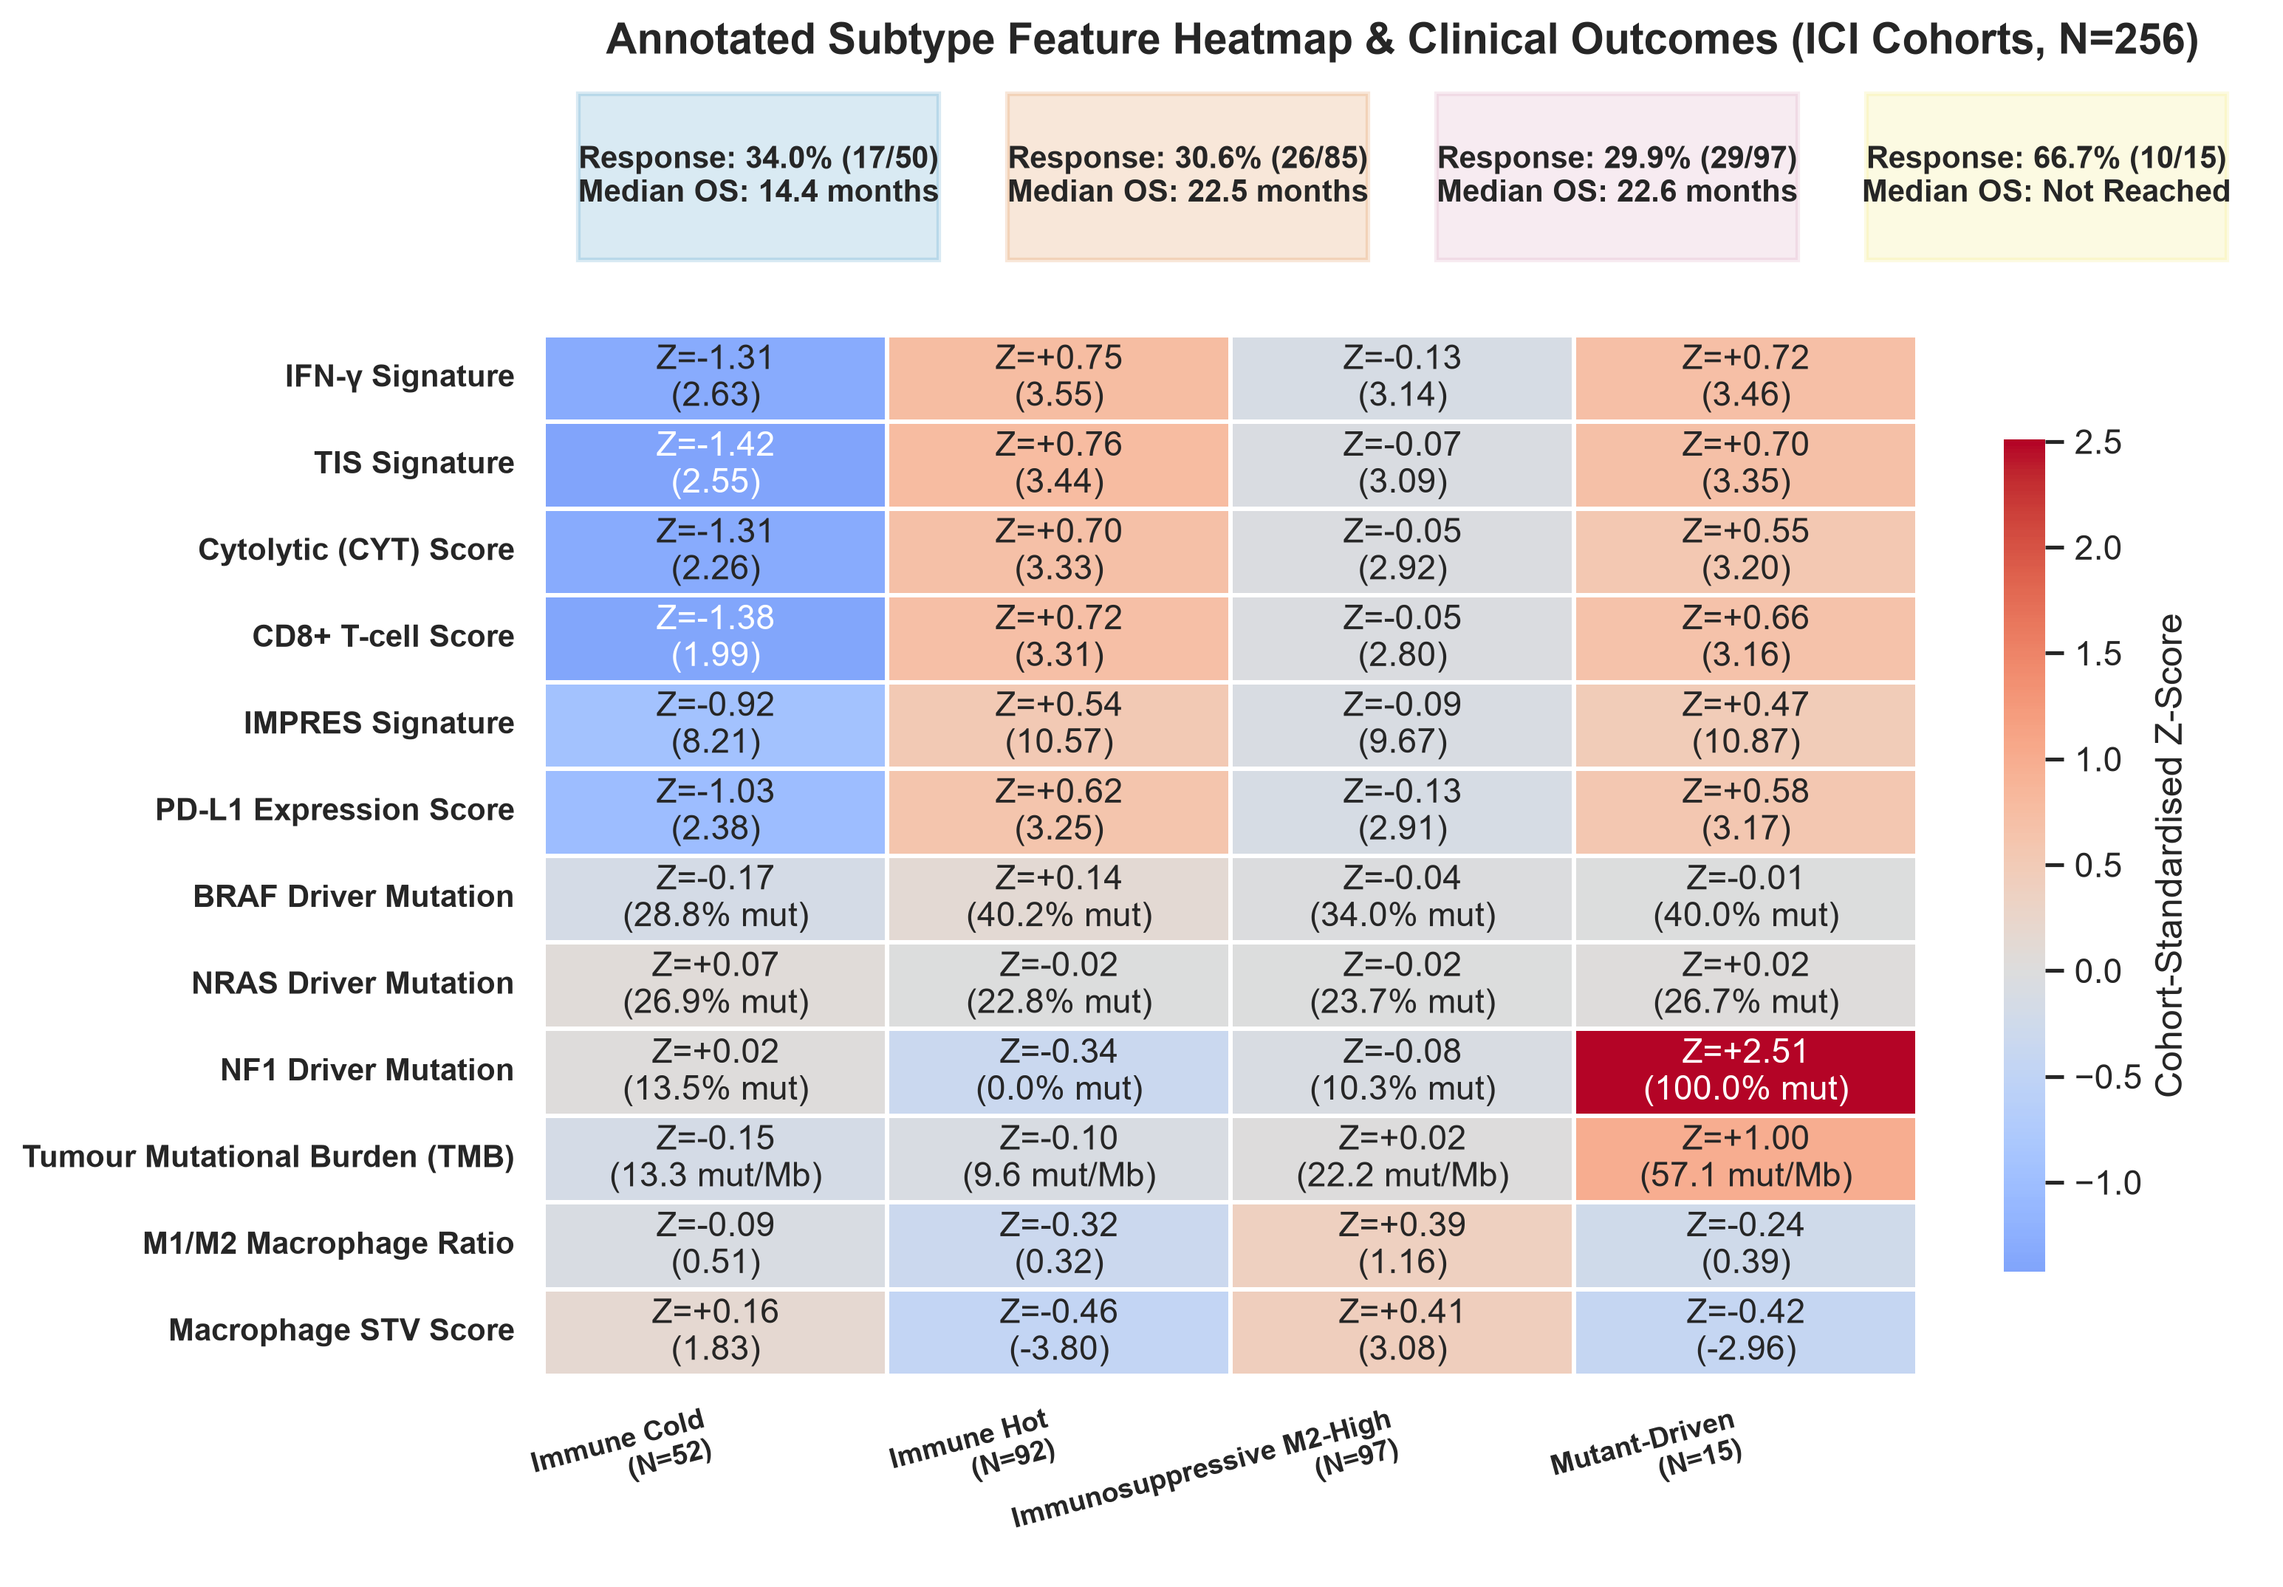
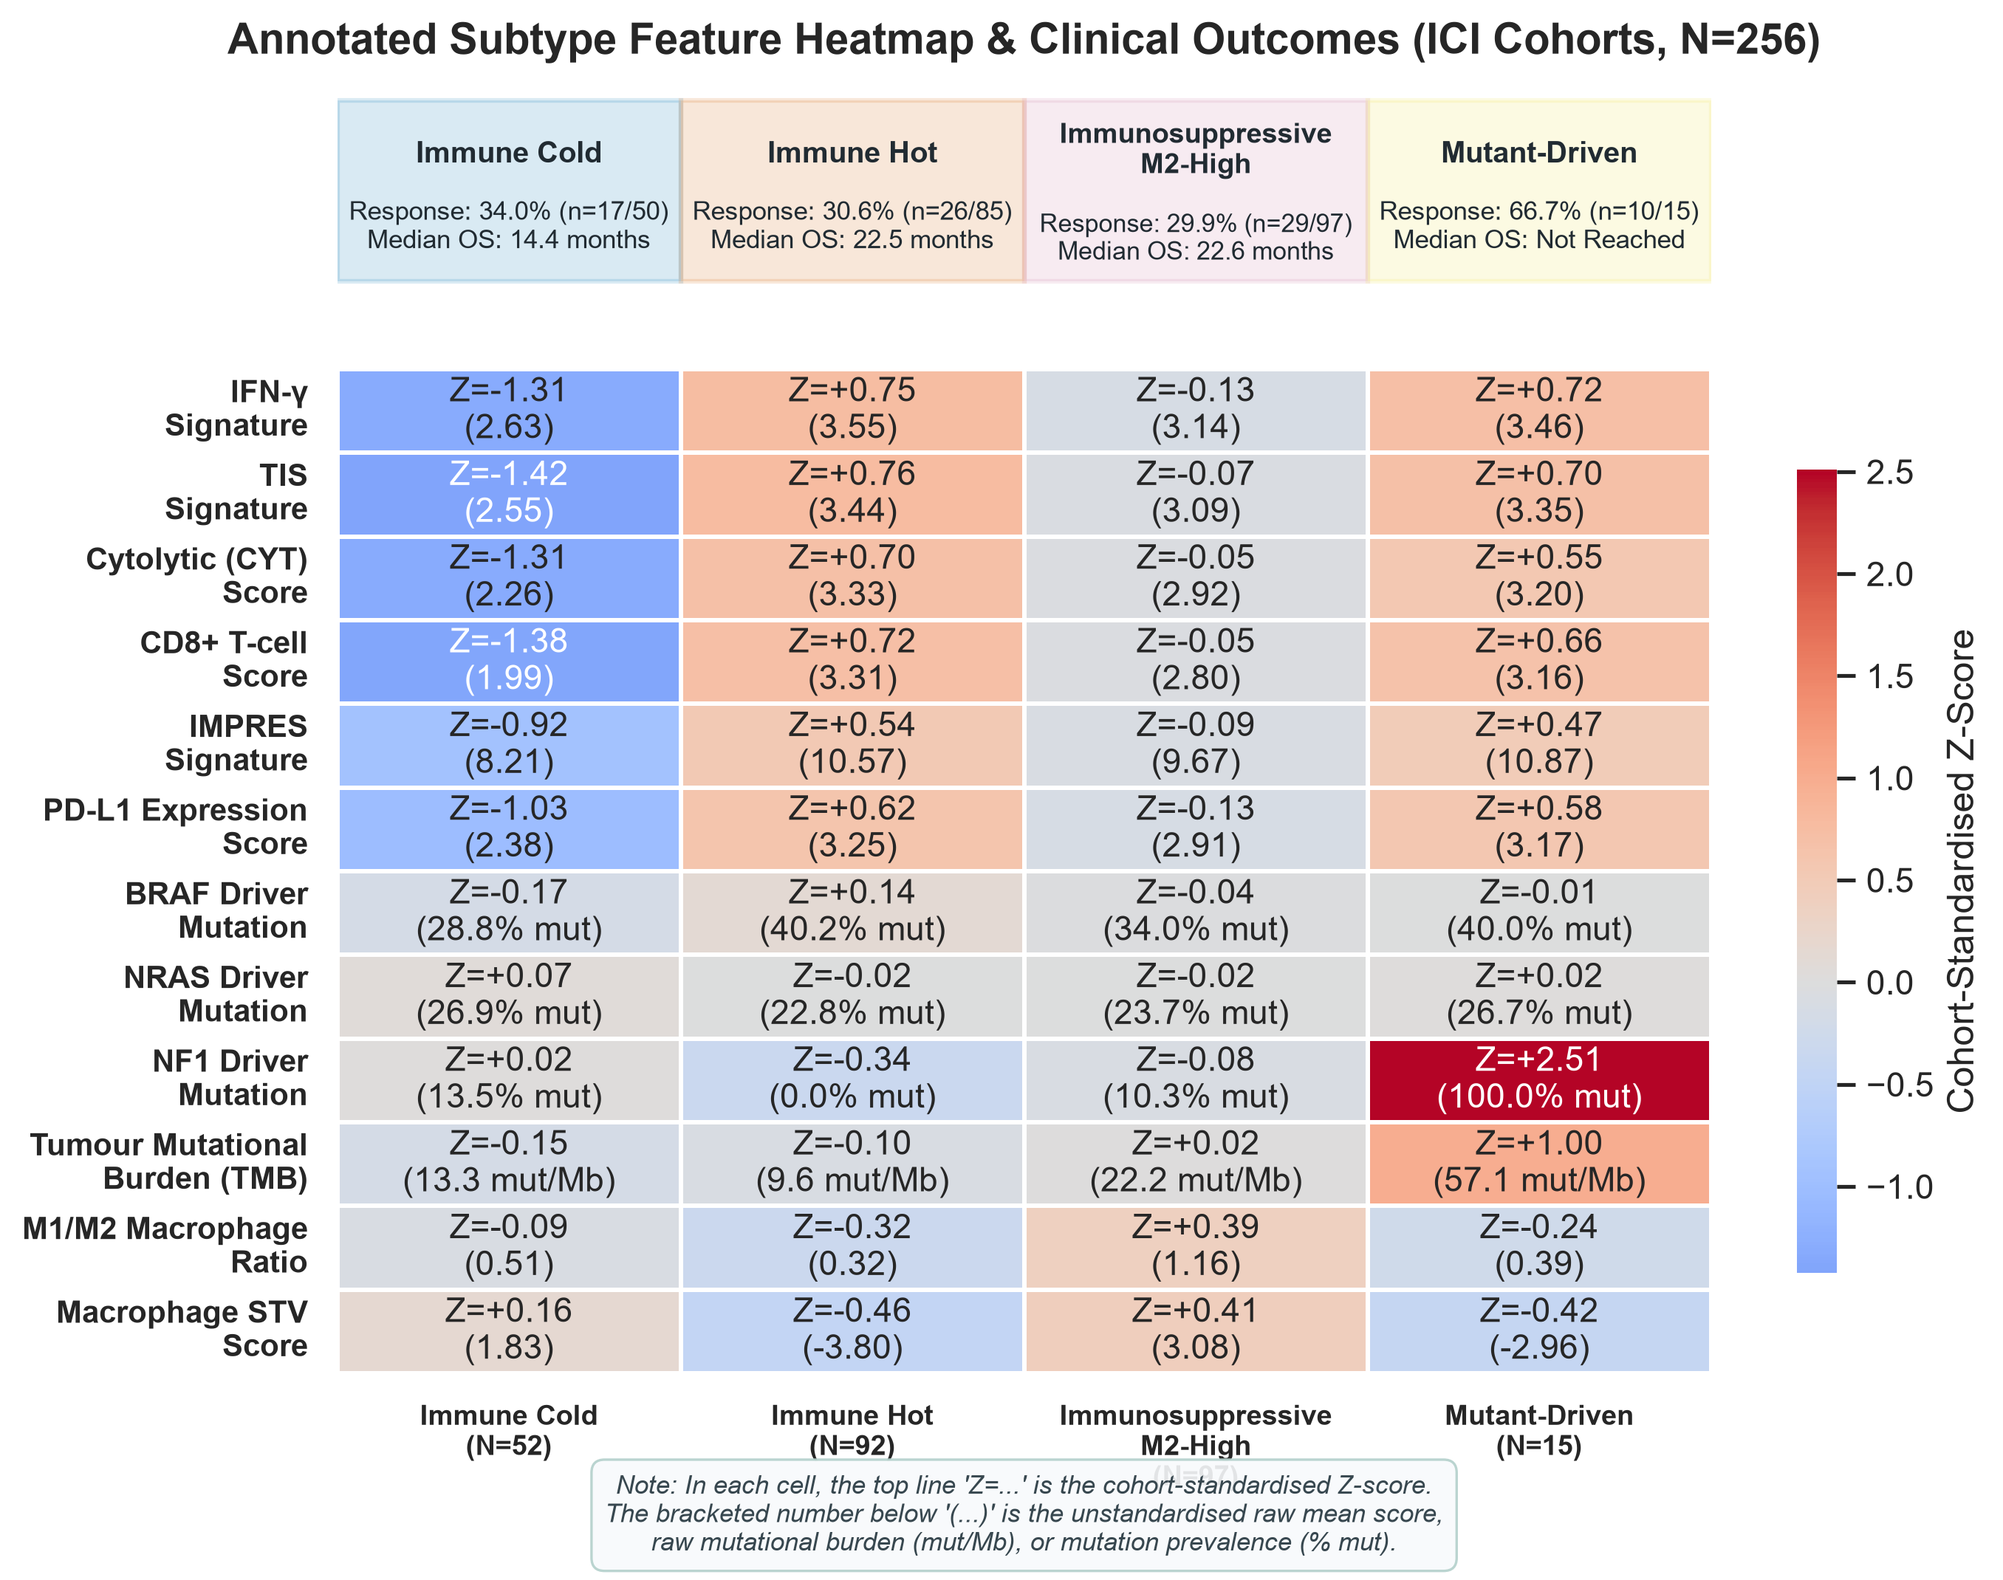
style(heatmap): widen phenotype boxes to full column width, centre legend over heatmap

diff --git a/q1-response-predictor/scripts/pillar-2-clinical-subtyping/run_clinical_clustering.py b/q1-response-predictor/scripts/pillar-2-clinical-subtyping/run_clinical_clustering.py
@@ -154,20 +154,20 @@ _PROB_COL_MAP: Dict[str, str] = {
     "Immunosuppressive M2-High": "P_Immunosuppressive_M2_High",
 }
 
-# Human-readable feature display names for heatmap annotation
+# Human-readable feature display names for heatmap annotation (wrapped across two lines)
 FEATURE_DISPLAY_NAMES: Dict[str, str] = {
-    "IFN_gamma": "IFN-γ Signature",
-    "TIS": "TIS Signature",
-    "CYT": "Cytolytic (CYT) Score",
-    "CD8_Tcell": "CD8+ T-cell Score",
-    "IMPRES": "IMPRES Signature",
-    "PD_L1": "PD-L1 Expression Score",
-    "mut_BRAF": "BRAF Driver Mutation",
-    "mut_NRAS": "NRAS Driver Mutation",
-    "mut_NF1": "NF1 Driver Mutation",
-    "TMB_NONSYNONYMOUS": "Tumour Mutational Burden (TMB)",
-    "M1_M2_Ratio": "M1/M2 Macrophage Ratio",
-    "Macrophage_STV": "Macrophage STV Score",
+    "IFN_gamma": "IFN-γ\nSignature",
+    "TIS": "TIS\nSignature",
+    "CYT": "Cytolytic (CYT)\nScore",
+    "CD8_Tcell": "CD8+ T-cell\nScore",
+    "IMPRES": "IMPRES\nSignature",
+    "PD_L1": "PD-L1 Expression\nScore",
+    "mut_BRAF": "BRAF Driver\nMutation",
+    "mut_NRAS": "NRAS Driver\nMutation",
+    "mut_NF1": "NF1 Driver\nMutation",
+    "TMB_NONSYNONYMOUS": "Tumour Mutational\nBurden (TMB)",
+    "M1_M2_Ratio": "M1/M2 Macrophage\nRatio",
+    "Macrophage_STV": "Macrophage STV\nScore",
 }
 
 
@@ -735,10 +735,10 @@ def _plot_cluster_heatmap(
             raw_matrix[row_idx, col_idx] = sub[col].mean()
 
     cluster_counts = df["CLINICAL_CLUSTER"].value_counts().to_dict()
-    col_labels = [
-        f"{phenotype_names[cid]}\n(N={cluster_counts.get(cid, 0)})"
-        for cid in ordered_ids
-    ]
+    col_labels = []
+    for cid in ordered_ids:
+        cname = phenotype_names[cid].replace("Immunosuppressive M2-High", "Immunosuppressive\nM2-High")
+        col_labels.append(f"{cname}\n(N={cluster_counts.get(cid, 0)})")
 
     # Response rates (trial patients with binary labels)
     trial_df = df[df["IS_TRIAL"] & df["RESPONDER"].notna()]
@@ -747,7 +747,7 @@ def _plot_cluster_heatmap(
         sub = trial_df[trial_df["CLINICAL_CLUSTER"] == cid]
         if len(sub) > 0:
             n_resp = (sub["RESPONDER"] == 1.0).sum()
-            resp_rates.append(f"{(n_resp / len(sub)) * 100:.1f}% ({n_resp}/{len(sub)})")
+            resp_rates.append(f"{(n_resp / len(sub)) * 100:.1f}% (n={n_resp}/{len(sub)})")
         else:
             resp_rates.append("N/A")
 
@@ -758,36 +758,10 @@ def _plot_cluster_heatmap(
     )
 
     fig = plt.figure(figsize=(max(10, 2.5 * n_clusters), 8.5))
-    gs = fig.add_gridspec(3, 1, height_ratios=[0.8, 4.5, 0.4], hspace=0.15)
+    gs = fig.add_gridspec(3, 1, height_ratios=[0.9, 4.5, 0.4], hspace=0.18)
 
     ax_top = fig.add_subplot(gs[0])
     ax_top.axis("off")
-
-    for col_idx, cid in enumerate(ordered_ids):
-        color = get_phenotype_color(phenotype_names[cid])
-        med_os = median_survivals.get(cid, "N/A")
-        track_text = f"Response: {resp_rates[col_idx]}\nMedian OS: {med_os}"
-
-        x_start = col_idx / n_clusters + 0.02
-        rect_width = (1.0 / n_clusters) - 0.04
-        rect = plt.Rectangle(
-            (x_start, 0.05), rect_width, 0.9,
-            facecolor=color, alpha=0.15, edgecolor=color,
-            linewidth=1.5, transform=ax_top.transAxes,
-        )
-        ax_top.add_patch(rect)
-        ax_top.text(
-            x_start + rect_width / 2,
-            0.5,
-            track_text,
-            ha="center", va="center", fontsize=10, weight="bold",
-            transform=ax_top.transAxes,
-        )
-
-    ax_top.set_title(
-        f"Annotated Subtype Feature Heatmap & Clinical Outcomes (ICI Cohorts, N={len(df)})",
-        fontsize=14, weight="bold", pad=10,
-    )
 
     ax_heat = fig.add_subplot(gs[1])
     _BINARY_FEATURES = set(_DRIVER_MUT_FEATURES)
@@ -817,7 +791,77 @@ def _plot_cluster_heatmap(
         ax=ax_heat,
     )
     ax_heat.set_yticklabels(ax_heat.get_yticklabels(), rotation=0, fontsize=10, weight="bold")
-    ax_heat.set_xticklabels(ax_heat.get_xticklabels(), rotation=15, ha="right", fontsize=9, weight="bold")
+    ax_heat.set_xticklabels(ax_heat.get_xticklabels(), rotation=0, ha="center", fontsize=9, weight="bold")
+
+    # Match ax_top's horizontal position and width to ax_heat's heatmap grid
+    fig.canvas.draw()
+    pos_heat = ax_heat.get_position()
+    pos_top = ax_top.get_position()
+    ax_top.set_position([pos_heat.x0, pos_top.y0, pos_heat.width, pos_top.height])
+
+    for col_idx, cid in enumerate(ordered_ids):
+        color = get_phenotype_color(phenotype_names[cid])
+        cluster_name = phenotype_names[cid].replace("Immunosuppressive M2-High", "Immunosuppressive\nM2-High")
+        med_os = median_survivals.get(cid, "N/A")
+        stats_text = f"Response: {resp_rates[col_idx]}\nMedian OS: {med_os}"
+
+        x_start = col_idx / n_clusters
+        rect_width = 1.0 / n_clusters
+        rect = plt.Rectangle(
+            (x_start, 0.05), rect_width, 0.9,
+            facecolor=color, alpha=0.15, edgecolor=color,
+            linewidth=1.5, transform=ax_top.transAxes,
+        )
+        ax_top.add_patch(rect)
+
+        # Cluster Name in bold
+        has_newline = "\n" in cluster_name
+        name_y = 0.70 if has_newline else 0.68
+        stats_y = 0.26 if has_newline else 0.32
+
+        ax_top.text(
+            x_start + rect_width / 2,
+            name_y,
+            cluster_name,
+            ha="center", va="center", fontsize=9.0 if has_newline else 9.5, weight="bold",
+            color="#212B32",
+            transform=ax_top.transAxes,
+        )
+        # Outcome stats reduced font size and not bold
+        ax_top.text(
+            x_start + rect_width / 2,
+            stats_y,
+            stats_text,
+            ha="center", va="center", fontsize=8.2 if has_newline else 8.5, weight="normal",
+            color="#212B32",
+            transform=ax_top.transAxes,
+        )
+
+    # Plot title centered horizontally
+    ax_top.set_title(
+        f"Annotated Subtype Feature Heatmap & Clinical Outcomes (ICI Cohorts, N={len(df)})",
+        fontsize=14, weight="bold", pad=12, ha="center", x=0.5,
+    )
+
+    # Bottom explanatory note detailing cell values
+    ax_bot = fig.add_subplot(gs[2])
+    ax_bot.axis("off")
+
+    # Pin ax_bot's horizontal extent to ax_heat so x=0.5 centers over the heatmap columns
+    pos_bot = ax_bot.get_position()
+    ax_bot.set_position([pos_heat.x0, pos_bot.y0, pos_heat.width, pos_bot.height])
+
+    note_text = (
+        "Note: In each cell, the top line 'Z=...' is the cohort-standardised Z-score.\n"
+        "The bracketed number below '(...)' is the unstandardised raw mean score,\n"
+        "raw mutational burden (mut/Mb), or mutation prevalence (% mut)."
+    )
+    ax_bot.text(
+        0.5, 0.28, note_text,
+        ha="center", va="center", fontsize=8.5, style="italic", color="#37474F",
+        bbox=dict(boxstyle="round,pad=0.5", facecolor="#F8FAFC", edgecolor="#B3D0CB", alpha=0.9, linewidth=0.8),
+        transform=ax_bot.transAxes,
+    )
 
     out_path = plot_dir / "heatmap_clinical_clusters.png"
     save_fig(fig, out_path)

diff --git a/q1-response-predictor/reports/pillar-2-clinical-subtyping/clinical_phenotyping_and_feature_selection.md b/q1-response-predictor/reports/pillar-2-clinical-subtyping/clinical_phenotyping_and_feature_selection.md
@@ -12,12 +12,12 @@ tags:
   - clustering
   - immune-hot-cold
   - nf1-split
-created: 2026-08-07 14:48
+created: 2026-08-07 15:17
 cssclasses:
   - table-small
   - table-center
   - row-alt
-updated: 2026-08-07 14:48
+updated: 2026-08-07 15:17
 ---
 
 # Patient Phenotyping via ICI Trial Cohort Two-Stage GMM Clustering
